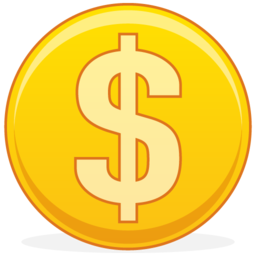
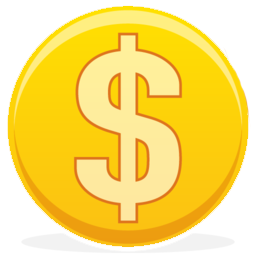
[CHANGED] Coin size and image for better looks [ADDED] Slowsnake upgrade [IMPROVED] Used lexical this in forEach on line 564 as per es6 spec [IMPROVED Buy buttons disable themselves on purchases if you cant afford them

Changed region(s): [[0.0, 0.0, 1.0, 1.0]]

diff --git a/js/snake.js b/js/snake.js
@@ -50,8 +50,9 @@ class SnakeGame {
 		this.upgrades = new Map();
 		this.purchases = new Map();
 
-		this.upgrades.set("phase", new Upgrade("Phasing Snake", 100, null, null));
-		this.upgrades.set("slowgrow", new Upgrade("Slow Growing Snake", 50, null, null));
+		this.upgrades.set("phase", new Upgrade("Phasing Snake", 50, null, null));
+		this.upgrades.set("slowsnake", new Upgrade("Slow Snake", 50, null, null));
+		this.upgrades.set("slowgrow", new Upgrade("Slow Growing Snake", 25, null, null));
 
 		this.purchases.set("cut", new Purchase("Cut Snake in Half", 10, () => {
 			let length = this.currentSnake.snakeParts.length;
@@ -194,8 +195,8 @@ class SnakeGame {
         while (respawn) {
             respawn = false;
 
-            entity.x = getRandomInt(entity.width, inside.width - entity.width);
-            entity.y = getRandomInt(entity.height, inside.height - entity.height);
+            entity.x = getRandomInt(entity.width + 1, inside.width - entity.width - 1);
+            entity.y = getRandomInt(entity.height + 1, inside.height - entity.height - 1);
 
 			this.entities.forEach(collidingEntity => {
 				if(collidingEntity.collidable){
@@ -548,18 +549,20 @@ class Snake extends Entity {
 	}
 
 	update() {
-		this.moveForward();
-
 		let game = SnakeGame.getGame();
-		let head = this.getHead();
-		let snake = this;
+		let hasSlowUpgrade = game.hasUpgrade("slowsnake");
 
+		if(!hasSlowUpgrade || game.ticks % 2 == 0 && hasSlowUpgrade){
+			this.moveForward();
+		}
+
+		let head = this.getHead();
 		if(!game.hasUpgrade("phase")){
 			this.snakeParts.forEach(part => {
 				//We avoid checking self collisions for most items
 				//The snake needs to do that though
-				if(part != head && snake.headCollidesWith(part)){
-					snake.onCollide(snake);
+				if(part != head && this.headCollidesWith(part)){
+					this.onCollide(this);
 				}
 			});
 		}
@@ -670,7 +673,7 @@ class FoodEntity extends RandomLocImageEntity {
 class CoinEntity extends RandomLocImageEntity {
 
     constructor(){
-        super(2, 2, SnakeGame.getGame().coinImg);
+        super(3, 3, SnakeGame.getGame().coinImg);
         this.startTicks = SnakeGame.getGame().ticks;
         this.ticksToExist = getRandomInt(20, 100);
     }
@@ -761,6 +764,9 @@ class Purchase extends Updateable {
 	}
 
 	update(){
+		let game = SnakeGame.getGame();
+		this.buyButtonElement.disabled = game.coins < this.price;
+
 		if(this.onUpdate != null){
 			this.onUpdate(this);
 		}
@@ -779,7 +785,9 @@ class Upgrade extends Purchase {
 	buy(){
 		super.buy();
 
-		this.buyButtonElement.disabled = true;
+		if(this.purchased){
+			this.buyButtonElement.disabled = true;
+		}
 	}
 }
 

diff --git a/snake.css b/snake.css
@@ -10,6 +10,7 @@ body, html {
 	display: flex;
 }
 
+/* TODO: Fix overflow not working quite right */
 #menuContainer {
 	flex: 10px;
 	min-width: 150px;
